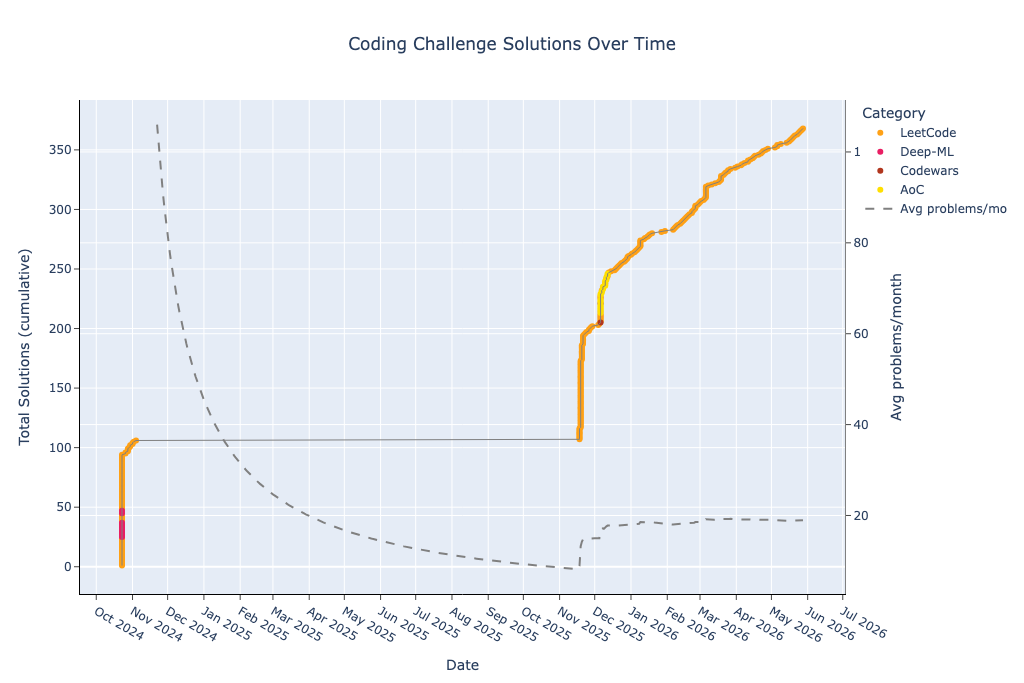
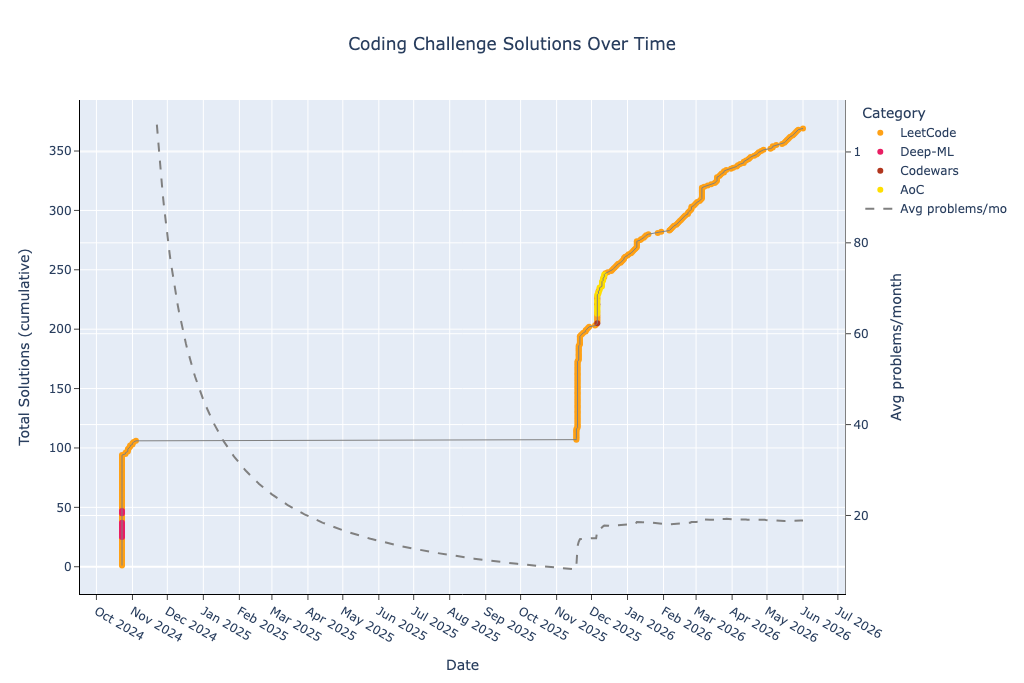
Regenerate README with LeetCode 2144

diff --git a/README.md b/README.md
@@ -35,7 +35,7 @@ This repository contains a collection of coding problems solved on various platf
 | codewars-kyu-5 | 1 | 19 | 19 | 2 | 0 | 2 | 1 | 0 | 0 | 0 | 2 | 0 | 0 | 0 | 0 | 0 | 0 | 0 |
 | deep-ml-easy | 9 | 72 | 8 | 10 | 0 | 2 | 13 | 0 | 0 | 0 | 12 | 3 | 0 | 0 | 0 | 0 | 0 | 0 |
 | deep-ml-medium | 5 | 69 | 13 | 5 | 0 | 1 | 7 | 0 | 0 | 0 | 8 | 2 | 0 | 0 | 0 | 0 | 0 | 0 |
-| leetcode-easy | 118 | 1941 | 16 | 160 | 6 | 164 | 151 | 42 | 6 | 14 | 195 | 4 | 4 | 14 | 1 | 0 | 11 | 0 |
+| leetcode-easy | 119 | 1953 | 16 | 161 | 6 | 165 | 152 | 42 | 6 | 14 | 196 | 4 | 4 | 14 | 1 | 0 | 12 | 0 |
 | leetcode-medium | 176 | 4595 | 26 | 309 | 5 | 471 | 341 | 103 | 21 | 39 | 384 | 6 | 37 | 57 | 11 | 26 | 23 | 7 |
 | leetcode-hard | 34 | 1061 | 31 | 63 | 4 | 97 | 84 | 21 | 11 | 15 | 79 | 3 | 7 | 14 | 8 | 3 | 9 | 9 |
 
@@ -47,6 +47,7 @@ Recently solved and added problems.
 
 | Date | Type | Challenge | Solution Code | Problem Link |
 | --- | --- | --- | --- | --- |
+| 2026-06-01 | LeetCode Easy | Minimum Cost of Buying Candies With Discount | [python](leetcode/easy/2144.%20Minimum%20Cost%20of%20Buying%20Candies%20With%20Discount.py) | [leetcode.com](https://leetcode.com/problems/minimum-cost-of-buying-candies-with-discount/) |
 | 2026-05-28 | LeetCode Hard | Longest Common Suffix Queries | [python](leetcode/hard/3093.%20Longest%20Common%20Suffix%20Queries.py) | [leetcode.com](https://leetcode.com/problems/longest-common-suffix-queries/) |
 | 2026-05-27 | LeetCode Medium | Count the Number of Special Characters II | [python](leetcode/medium/3121.%20Count%20the%20Number%20of%20Special%20Characters%20II.py) | [leetcode.com](https://leetcode.com/problems/count-the-number-of-special-characters-ii/) |
 | 2026-05-26 | LeetCode Easy | Count the Number of Special Characters I | [python](leetcode/easy/3120.%20Count%20the%20Number%20of%20Special%20Characters%20I.py) | [leetcode.com](https://leetcode.com/problems/count-the-number-of-special-characters-i/) |
@@ -56,7 +57,6 @@ Recently solved and added problems.
 | 2026-05-23 | LeetCode Easy | Check if Array Is Sorted and Rotated | [python](leetcode/easy/1752.%20Check%20if%20Array%20Is%20Sorted%20and%20Rotated.py) | [leetcode.com](https://leetcode.com/problems/check-if-array-is-sorted-and-rotated/) |
 | 2026-05-21 | LeetCode Medium | Find the Length of the Longest Common Prefix | [python](leetcode/medium/3043.%20Find%20the%20Length%20of%20the%20Longest%20Common%20Prefix.py) | [leetcode.com](https://leetcode.com/problems/find-the-length-of-the-longest-common-prefix/) |
 | 2026-05-20 | LeetCode Medium | Find the Prefix Common Array of Two Arrays | [python](leetcode/medium/2657.%20Find%20the%20Prefix%20Common%20Array%20of%20Two%20Arrays.py) | [leetcode.com](https://leetcode.com/problems/find-the-prefix-common-array-of-two-arrays/) |
-| 2026-05-19 | LeetCode Easy | Minimum Common Value | [python](leetcode/easy/2540.%20Minimum%20Common%20Value.py) | [leetcode.com](https://leetcode.com/problems/minimum-common-value/) |
 # Advent of Code
 ### 2025
 | Day | Challenge | Time Complexity | Space Complexity | Solution Code | Problem Link |
@@ -190,6 +190,7 @@ Recently solved and added problems.
 | 2011 | Final Value of Variable After Performing Operations | O(n) | O(1) | [python](leetcode/easy/2011.%20Final%20Value%20of%20Variable%20After%20Performing%20Operations.py) | [leetcode.com](https://leetcode.com/problems/final-value-of-variable-after-performing-operations/) |
 | 2073 | Time Needed to Buy Tickets | O(n) | O(1) | [python](leetcode/easy/2073.%20Time%20Needed%20to%20Buy%20Tickets.py) | [leetcode.com](https://leetcode.com/problems/time-needed-to-buy-tickets/) |
 | 2078 | Two Furthest Houses With Different Colors | O(n) | O(n) | [python](leetcode/easy/2078.%20Two%20Furthest%20Houses%20With%20Different%20Colors.py) | [leetcode.com](https://leetcode.com/problems/two-furthest-houses-with-different-colors/) |
+| 2144 | Minimum Cost of Buying Candies With Discount | O(n log n) | O(1) | [python](leetcode/easy/2144.%20Minimum%20Cost%20of%20Buying%20Candies%20With%20Discount.py) | [leetcode.com](https://leetcode.com/problems/minimum-cost-of-buying-candies-with-discount/) |
 | 2154 | Keep Multiplying Found Values by Two | O(n) | O(1) | [python](leetcode/easy/2154.%20Keep%20Multiplying%20Found%20Values%20by%20Two.py) | [leetcode.com](https://leetcode.com/problems/keep-multiplying-found-values-by-two/) |
 | 2273 | Find Resultant Array After Removing Anagrams | O(n) | O(1) | [python](leetcode/easy/2273.%20Find%20Resultant%20Array%20After%20Removing%20Anagrams.py) | [leetcode.com](https://leetcode.com/problems/find-resultant-array-after-removing-anagrams/) |
 | 2331 | Evaluate Boolean Binary Tree | O(n) | O(1) | [python](leetcode/easy/2331.%20Evaluate%20Boolean%20Binary%20Tree.py) | [leetcode.com](https://leetcode.com/problems/evaluate-boolean-binary-tree/) |

diff --git a/CHANGES.md b/CHANGES.md
@@ -6,6 +6,7 @@ Recently solved and added problems.
 
 | Date | Type | Challenge | Solution Code | Problem Link |
 | --- | --- | --- | --- | --- |
+| 2026-06-01 | LeetCode Easy | Minimum Cost of Buying Candies With Discount | [python](leetcode/easy/2144.%20Minimum%20Cost%20of%20Buying%20Candies%20With%20Discount.py) | [leetcode.com](https://leetcode.com/problems/minimum-cost-of-buying-candies-with-discount/) |
 | 2026-05-28 | LeetCode Hard | Longest Common Suffix Queries | [python](leetcode/hard/3093.%20Longest%20Common%20Suffix%20Queries.py) | [leetcode.com](https://leetcode.com/problems/longest-common-suffix-queries/) |
 | 2026-05-27 | LeetCode Medium | Count the Number of Special Characters II | [python](leetcode/medium/3121.%20Count%20the%20Number%20of%20Special%20Characters%20II.py) | [leetcode.com](https://leetcode.com/problems/count-the-number-of-special-characters-ii/) |
 | 2026-05-26 | LeetCode Easy | Count the Number of Special Characters I | [python](leetcode/easy/3120.%20Count%20the%20Number%20of%20Special%20Characters%20I.py) | [leetcode.com](https://leetcode.com/problems/count-the-number-of-special-characters-i/) |
@@ -15,4 +16,3 @@ Recently solved and added problems.
 | 2026-05-23 | LeetCode Easy | Check if Array Is Sorted and Rotated | [python](leetcode/easy/1752.%20Check%20if%20Array%20Is%20Sorted%20and%20Rotated.py) | [leetcode.com](https://leetcode.com/problems/check-if-array-is-sorted-and-rotated/) |
 | 2026-05-21 | LeetCode Medium | Find the Length of the Longest Common Prefix | [python](leetcode/medium/3043.%20Find%20the%20Length%20of%20the%20Longest%20Common%20Prefix.py) | [leetcode.com](https://leetcode.com/problems/find-the-length-of-the-longest-common-prefix/) |
 | 2026-05-20 | LeetCode Medium | Find the Prefix Common Array of Two Arrays | [python](leetcode/medium/2657.%20Find%20the%20Prefix%20Common%20Array%20of%20Two%20Arrays.py) | [leetcode.com](https://leetcode.com/problems/find-the-prefix-common-array-of-two-arrays/) |
-| 2026-05-19 | LeetCode Easy | Minimum Common Value | [python](leetcode/easy/2540.%20Minimum%20Common%20Value.py) | [leetcode.com](https://leetcode.com/problems/minimum-common-value/) |
